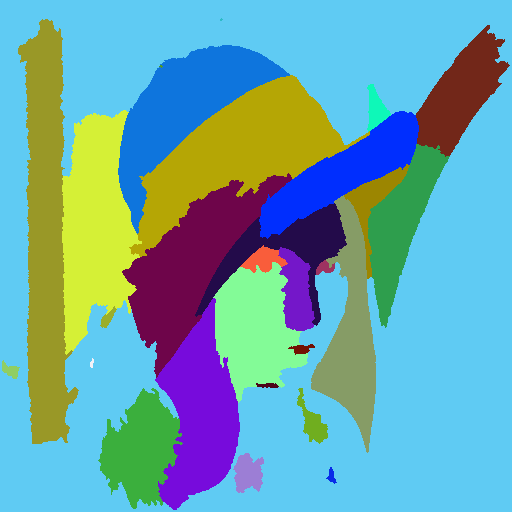
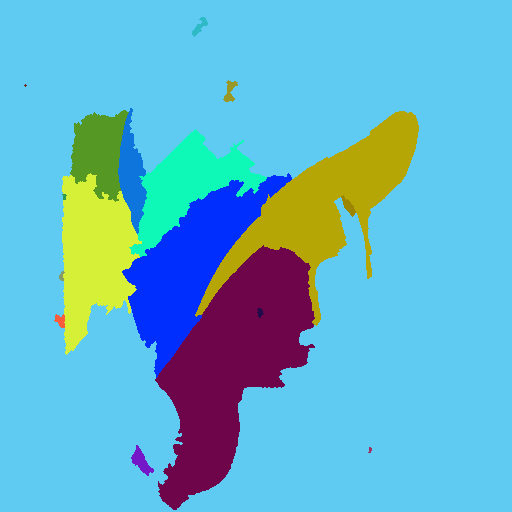
Agora pode-se recortar literalmente as segmentações feita

diff --git a/src/ImageSegmenter.cpp b/src/ImageSegmenter.cpp
@@ -4,7 +4,9 @@
 #include <unordered_map>    // Para std::unordered_map (usado em visualizeSegmentation)
 #include <random>           // Para geração de números aleatórios (para cores em visualizeSegmentation)
 #include <iostream>         // Para std::cout, std::cerr
-#include <numeric>  // Para std::inner_product e outros
+#include <numeric>          // Para std::inner_product e outros
+#include <limits>           // Para std::numeric_limits
+#include <cstdint>          // Para uint8_t (boa prática incluir aqui também, caso Pixel precise)
 
 // Construtor da classe ImageSegmenter. Inicializa com a imagem fornecida.
 ImageSegmenter::ImageSegmenter(const Image& img) : image(img), width(img.width), height(img.height) {}
@@ -84,8 +86,8 @@ Image ImageSegmenter::createSmoothedImage(double sigma) {
     // Cria o kernel Gaussiano 2D
     for (int j = -kernelRadius; j <= kernelRadius; ++j) {
         for (int i = -kernelRadius; i <= kernelRadius; ++i) {
-            double r = std::sqrt(i * i + j * j);
-            kernel[(j + kernelRadius) * kernelSize + (i + kernelRadius)] = (std::exp(-(r * r) / (2 * sigma * sigma)) / (2 * M_PI * sigma * sigma));
+            double r_val = std::sqrt(i * i + j * j); // Renomeado para evitar conflito com 'r' do Pixel
+            kernel[(j + kernelRadius) * kernelSize + (i + kernelRadius)] = (std::exp(-(r_val * r_val) / (2 * sigma * sigma)) / (2 * M_PI * sigma * sigma));
             sum += kernel[(j + kernelRadius) * kernelSize + (i + kernelRadius)];
         }
     }
@@ -107,7 +109,8 @@ Image ImageSegmenter::createSmoothedImage(double sigma) {
                     b_sum += p.b * kernelValue;
                 }
             }
-            smoothedImage.data[y * width + x] = {
+            // Correção na atribuição do Pixel: usar inicialização de lista para o construtor
+            smoothedImage.data[y * width + x] = Pixel{
                 static_cast<uint8_t>(r_sum),
                 static_cast<uint8_t>(g_sum),
                 static_cast<uint8_t>(b_sum)
@@ -153,6 +156,8 @@ std::vector<std::vector<int>> ImageSegmenter::buildAdjacency() {
             if (r + 1 < height) adj[u].push_back(image.index(r + 1, c)); // Vizinho abaixo
             if (c + 1 < width) adj[u].push_back(image.index(r, c + 1));   // Vizinho à direita
             if (r - 1 >= 0) adj[u].push_back(image.index(r - 1, c));     // Vizinho acima
+            
+            // CORREÇÃO AQUI: A condição estava errada, causando acesso fora dos limites.
             if (c - 1 >= 0) adj[u].push_back(image.index(r, c - 1));     // Vizinho à esquerda
         }
     }
@@ -251,6 +256,11 @@ std::vector<int> ImageSegmenter::segmentGraphIFT(const std::vector<double>& grad
 
     // Inicializa as sementes na fila de prioridade.
     for (int s : seeds) {
+        // Adição de verificação de semente válida
+        if (s < 0 || s >= n) {
+            std::cerr << "AVISO: Semente inválida (" << s << ") ignorada em segmentGraphIFT." << std::endl;
+            continue;
+        }
         cost[s] = 0;   // O custo da semente para si mesma é 0.
         label[s] = s;  // O rótulo da semente é seu próprio índice.
         pq.push({0, s}); // Adiciona a semente na fila de prioridade.
@@ -259,8 +269,8 @@ std::vector<int> ImageSegmenter::segmentGraphIFT(const std::vector<double>& grad
     auto adj = buildAdjacency(); // Constrói a lista de adjacência para iterar sobre vizinhos.
 
     // Variáveis de depuração para controlar a impressão no console.
-    int debug_counter = 0;
-    const int DEBUG_PRINT_INTERVAL = 10000; // Imprime a cada 10.000 iterações.
+    // int debug_counter = 0; // Removido ou comentado se não estiver em uso
+    // const int DEBUG_PRINT_INTERVAL = 10000; // Removido ou comentado
 
     // Loop principal do IFT: Enquanto houver pixels na fila de prioridade.
     while (!pq.empty()) { 
@@ -273,22 +283,16 @@ std::vector<int> ImageSegmenter::segmentGraphIFT(const std::vector<double>& grad
 
         // Itera sobre todos os vizinhos 'v' do pixel atual 'u'.
         for (int v : adj[u]) {
+            // Adição de verificação de segurança para o índice 'v'
+            if (v < 0 || v >= gradientImage.size()) {
+                std::cerr << "ERRO (IFT): Índice de vizinho 'v' fora dos limites. u=" << u << ", v=" << v << ", gradientImage.size()=" << gradientImage.size() << std::endl;
+                continue; // Pular este vizinho problemático para evitar o crash
+            }
+            
             // Calcula o peso da aresta entre 'u' e 'v' usando pixelDifferenceIFT (amplificado).
             double w = gradientImage[v];
             // Calcula o novo custo para 'v' através de 'u': custo acumulado (cost[u] + w).
             double new_cost = std::max(cost[u], w);  // fmax(π⋅⟨s,t⟩) = max{fmax(π),w(s,t)}
-
-            // --- LINHAS DE DEPURAGEM (COMENTADAS POR PADRÃO) ---
-            // Descomente para ver o fluxo detalhado do IFT no console.
-            /*
-            debug_counter++;
-            if (debug_counter % DEBUG_PRINT_INTERVAL == 0) {
-                std::cout << "[DEBUG IFT] u=" << u << ", v=" << v << ", w=" << w
-                          << ", cost[u]=" << cost[u] << ", new_cost=" << new_cost
-                          << ", cost[v]=" << cost[v] << std::endl;
-            }
-            */
-            // --- FIM DAS LINHAS DE DEPURAGEM ---
             
             // Se o novo custo para 'v' é menor do que o custo atualmente conhecido para 'v'.
             if (new_cost < cost[v]) {
@@ -316,7 +320,7 @@ Image ImageSegmenter::visualizeSegmentation(const std::vector<int>& labels) {
         int lbl = labels[i]; // Obtém o rótulo do pixel atual.
         // Se o rótulo ainda não tem uma cor associada, gera uma nova cor aleatória.
         if (color_map.find(lbl) == color_map.end()) {
-            color_map[lbl] = { (unsigned char)dist(rng), (unsigned char)dist(rng), (unsigned char)dist(rng) };
+            color_map[lbl] = Pixel{ (unsigned char)dist(rng), (unsigned char)dist(rng), (unsigned char)dist(rng) }; // Correção na atribuição do Pixel
             // Imprime a primeira cor gerada para depuração.
             if (!first_color_generated) {
                 std::cout << "[DEBUG - Visualize] Primeira cor gerada para rótulo " << lbl << ": R=" << (int)color_map[lbl].r
@@ -329,4 +333,61 @@ Image ImageSegmenter::visualizeSegmentation(const std::vector<int>& labels) {
     }
 
     return out; // Retorna a imagem segmentada visualizada.
+}
+
+
+// --- NOVA FUNCIONALIDADE: Recortar a imagem original com base em um segmento ---
+Image ImageSegmenter::cropSegment(const std::vector<int>& labels, int targetSegmentLabel, const Pixel& backgroundColor) {
+    int min_r = height;
+    int max_r = -1;
+    int min_c = width;
+    int max_c = -1;
+    bool segment_found = false;
+
+    // 1. Encontrar a caixa delimitadora (bounding box) do segmento alvo
+    for (int r = 0; r < height; ++r) {
+        for (int c = 0; c < width; ++c) {
+            int idx = image.index(r, c);
+            if (labels[idx] == targetSegmentLabel) {
+                segment_found = true;
+                min_r = std::min(min_r, r);
+                max_r = std::max(max_r, r);
+                min_c = std::min(min_c, c);
+                max_c = std::max(max_c, c);
+            }
+        }
+    }
+
+    if (!segment_found) {
+        std::cerr << "AVISO: Segmento com rótulo " << targetSegmentLabel << " não encontrado. Retornando imagem vazia." << std::endl;
+        return Image(0, 0); // Retorna uma imagem vazia se o segmento não for encontrado
+    }
+
+    // Calcular as dimensões da nova imagem recortada
+    int cropped_width = max_c - min_c + 1;
+    int cropped_height = max_r - min_r + 1;
+
+    // 2. Criar a nova imagem recortada
+    Image croppedImage(cropped_width, cropped_height);
+
+    // 3. Preencher a nova imagem
+    for (int r_cropped = 0; r_cropped < cropped_height; ++r_cropped) {
+        for (int c_cropped = 0; c_cropped < cropped_width; ++c_cropped) {
+            // Coordenadas do pixel na imagem original
+            int r_original = min_r + r_cropped;
+            int c_original = min_c + c_cropped;
+
+            int original_idx = image.index(r_original, c_original);
+            int cropped_idx = croppedImage.index(r_cropped, c_cropped);
+
+            // Se o pixel pertence ao segmento alvo, copie o pixel da imagem original
+            if (labels[original_idx] == targetSegmentLabel) {
+                croppedImage.data[cropped_idx] = image.data[original_idx];
+            } else {
+                // Caso contrário, preencha com a cor de fundo
+                croppedImage.data[cropped_idx] = backgroundColor;
+            }
+        }
+    }
+    return croppedImage;
 }

diff --git a/src/main.cpp b/src/main.cpp
@@ -3,6 +3,7 @@
 #include <iostream>         // Para entrada e saída de dados (cout, cerr)
 #include <string>           // Para manipulação de strings (nomes de arquivos)
 #include <set>              // Usado para contar rótulos únicos na depuração do IFT
+#include <cstdint>          // Necessário para uint8_t
 
 /**
  * @brief Extrai o nome base de um caminho de arquivo, removendo diretórios e extensão.
@@ -35,7 +36,7 @@ int main() {
     // Altere este caminho para a imagem que deseja testar.
     // Certifique-se de que a imagem (ex: lego.png, coffe-table.png, lenna-RGB.png, lennaGray.png)
     // está localizada no diretório 'src/'.
-    std::string inputFilename = "src/coffe-table.png"; // Imagem de entrada atual
+    std::string inputFilename = "src/lenna-RGB.png"; // Imagem de entrada atual
 
     // Cria um objeto Image carregando a imagem do caminho especificado.
     Image img(inputFilename);
@@ -65,6 +66,21 @@ int main() {
     out_fz.save(baseName + "_felzenszwalb.png"); // Salva a imagem segmentada
     std::cout << "Segmentação Felzenszwalb gerada: " << baseName << "_felzenszwalb.png" << std::endl;
 
+    // --- RECORTANDO UM SEGMENTO ESPECÍFICO COM FELZENSZWALB ---
+    // Escolha um rótulo de segmento para recortar.
+    // Você precisará inspecionar a imagem '_felzenszwalb.png' para encontrar um rótulo interessante.
+    // Por exemplo, para 'coffe-table.png', o rótulo do pixel (310, 260) pode ser parte da xícara da frente.
+    int target_segment_label_fz = labels_fz[img.index(310, 260)]; // Exemplo: rótulo do pixel central da xícara da frente
+    Pixel background_color_fz = {0, 0, 0}; // Cor de fundo preta para áreas fora do segmento recortado
+    Image cropped_fz_segment = segmenter.cropSegment(labels_fz, target_segment_label_fz, background_color_fz);
+    if (cropped_fz_segment.width > 0 && cropped_fz_segment.height > 0) {
+        cropped_fz_segment.save(baseName + "_felzenszwalb_cropped_segment.png");
+        std::cout << "Segmento Felzenszwalb recortado (" << target_segment_label_fz << ") gerado: " 
+                  << baseName << "_felzenszwalb_cropped_segment.png" << std::endl;
+    } else {
+        std::cout << "Falha ao recortar segmento Felzenszwalb ou segmento não encontrado." << std::endl;
+    }
+
 
     // --- EXECUÇÃO E SALVAMENTO DA SEGMENTAÇÃO IFT ---
 
@@ -80,11 +96,13 @@ int main() {
         // Converte o valor double do gradiente para um valor de 8-bit (0-255)
         uint8_t gray_val = static_cast<uint8_t>(gradientImageVector[i]);
         // Define o pixel como um tom de cinza (R=G=B)
-        gradientVisImage.data[i] = {gray_val, gray_val, gray_val};
+        // CORREÇÃO AQUI: Crie um objeto Pixel temporário e atribua-o
+        gradientVisImage.data[i] = Pixel{gray_val, gray_val, gray_val};
     }
 
     gradientVisImage.save(baseName + "_gradient.png");
     std::cout << "Imagem de gradiente gerada: " << baseName << "_gradient.png" << std::endl;
+    
     // As 'seeds' (sementes) são pontos iniciais a partir dos quais o IFT expande as regiões.
     // Seu posicionamento é crucial para o resultado do IFT.
     // As coordenadas (linha, coluna) são convertidas para um índice linear usando img.index().
@@ -190,6 +208,21 @@ int main() {
     out_ift.save(baseName + "_ift_watershed.png"); // Salva a imagem segmentada
     std::cout << "Segmentação IFT-Watershed gerada: " << baseName << "_ift_watershed.png" << std::endl;
 
+    // --- RECORTANDO UM SEGMENTO ESPECÍFICO COM IFT ---
+    // Escolha um rótulo de segmento para recortar.
+    // Você precisará inspecionar a imagem '_ift_watershed.png' para encontrar um rótulo interessante.
+    // Para 'coffe-table.png', o rótulo do pixel (155, 350) pode ser parte da xícara de trás.
+    int target_segment_label_ift = labels_ift[img.index(155, 350)]; // Exemplo: rótulo do pixel central da xícara de trás
+    Pixel background_color_ift = {0, 0, 0}; // Cor de fundo preta para áreas fora do segmento recortado
+    Image cropped_ift_segment = segmenter.cropSegment(labels_ift, target_segment_label_ift, background_color_ift);
+    if (cropped_ift_segment.width > 0 && cropped_ift_segment.height > 0) {
+        cropped_ift_segment.save(baseName + "_ift_watershed_cropped_segment.png");
+        std::cout << "Segmento IFT-Watershed recortado (" << target_segment_label_ift << ") gerado: " 
+                  << baseName << "_ift_watershed_cropped_segment.png" << std::endl;
+    } else {
+        std::cout << "Falha ao recortar segmento IFT-Watershed ou segmento não encontrado." << std::endl;
+    }
+
     // --- CÓDIGO DE DEPURACÃO PARA O IFT-WATERSHED ---
     std::set<int> unique_ift_labels;
     for (int label : labels_ift) {
@@ -207,6 +240,6 @@ int main() {
     }
     std::cout << "--- FIM DEPURACAO IFT-WATERSHED ---\n" << std::endl;
 
-    std::cout << "Processo de segmentação concluído!\n";
+    std::cout << "Processo de segmentação e recorte concluído!\n";
     return 0; // Retorna 0 indicando sucesso.
 }

diff --git a/include/Image.h b/include/Image.h
@@ -1,61 +1,42 @@
-#ifndef IMAGE_H // Previne inclusões múltiplas do mesmo cabeçalho
+#ifndef IMAGE_H
 #define IMAGE_H
 
-#include <string> // Necessário para usar std::string (nomes de arquivos)
-#include <vector> // Necessário para usar std::vector (dados de pixels)
+#include <string>
+#include <vector>
+#include <cstdint> // Good practice to include here as well if Pixel might use it
 
-/**
- * @brief Estrutura que representa um pixel em formato RGB.
- * Cada componente de cor (vermelho, verde, azul) é um unsigned char (0-255).
- */
 struct Pixel {
-    unsigned char r, g, b; // Componentes de cor: Red, Green, Blue
+    unsigned char r, g, b;
 };
 
-/**
- * @brief Classe para manipulação de imagens (carregamento, acesso a pixels, salvamento).
- * Suporta imagens em formato RGB.
- */
 class Image {
 public:
-    int width, height; // Largura e altura da imagem em pixels
-    std::vector<Pixel> data; // Vetor que armazena os dados dos pixels da imagem
-                               // Os pixels são armazenados em ordem linear (linha a linha).
+    int width, height;
+    std::vector<Pixel> data;
 
-    /**
-     * @brief Construtor da classe Image. Carrega uma imagem de um arquivo.
-     * @param filename O caminho para o arquivo da imagem (ex: "path/to/image.png").
-     */
+    // Constructor to load from file (already exists)
     Image(const std::string& filename);
 
+    // --- NEW CONSTRUCTOR HERE ---
     /**
-     * @brief Obtém o pixel em uma determinada linha e coluna.
-     * @param row A linha do pixel (0 a height-1).
-     * @param col A coluna do pixel (0 a width-1).
-     * @return O objeto Pixel na posição especificada.
+     * @brief Construtor da classe Image para criar uma imagem vazia de um determinado tamanho.
+     * @param w A largura da nova imagem.
+     * @param h A altura da nova imagem.
      */
+    Image(int w, int h) : width(w), height(h) {
+        if (w > 0 && h > 0) {
+            data.resize(w * h); // Aloca espaço para os pixels
+        } else {
+            width = 0; // Garante que a imagem é considerada vazia se w ou h for <= 0
+            height = 0;
+            data.clear();
+        }
+    }
+
+
     Pixel getPixel(int row, int col) const;
-
-    /**
-     * @brief Define o pixel em uma determinada linha e coluna com um novo valor.
-     * @param row A linha do pixel.
-     * @param col A coluna do pixel.
-     * @param p O novo valor do pixel.
-     */
     void setPixel(int row, int col, const Pixel& p);
-
-    /**
-     * @brief Salva a imagem atual em um arquivo PNG.
-     * @param filename O caminho para o arquivo onde a imagem será salva.
-     */
     void save(const std::string& filename) const;
-
-    /**
-     * @brief Converte coordenadas de linha/coluna para um índice linear no vetor 'data'.
-     * @param row A linha do pixel.
-     * @param col A coluna do pixel.
-     * @return O índice linear correspondente no vetor 'data'.
-     */
     int index(int row, int col) const;
 };
 

diff --git a/include/ImageSegmenter.h b/include/ImageSegmenter.h
@@ -49,10 +49,30 @@ public:
      */
     Image visualizeSegmentation(const std::vector<int>& labels);
 
-
+    /**
+     * @brief Calcula a magnitude do gradiente da imagem usando o operador Sobel.
+     * @return Um vetor de doubles contendo o mapa de gradiente normalizado.
+     */
     std::vector<double> calculateGradientMagnitude();
 
+    /**
+     * @brief Cria uma nova imagem suavizada com um filtro Gaussiano.
+     * @param sigma O desvio padrão do filtro. Valores maiores produzem mais desfoque.
+     * @return Um novo objeto Image contendo os dados suavizados.
+     */
     Image createSmoothedImage(double sigma);
+
+
+
+    /**
+     * @brief Recorta um segmento específico da imagem original com base nos rótulos de segmentação.
+     * A área fora do segmento dentro da caixa delimitadora será preenchida com a cor de fundo.
+     * @param labels Um vetor de rótulos de segmentação.
+     * @param targetSegmentLabel O rótulo do segmento que se deseja recortar.
+     * @param backgroundColor A cor a ser usada para preencher as áreas fora do segmento recortado.
+     * @return Uma nova imagem contendo apenas o segmento recortado.
+     */
+    Image cropSegment(const std::vector<int>& labels, int targetSegmentLabel, const Pixel& backgroundColor);
 
 private:
     const Image& image; // Referência constante à imagem original
